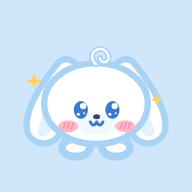
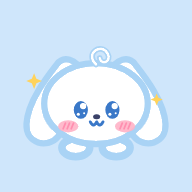
Add files via upload

Changed region(s): [[0.7188, 0.5938, 0.8125, 0.7188], [0.1875, 0.5938, 0.2812, 0.7188]]

diff --git a/index.html b/index.html
@@ -1,5 +1,5 @@
 <!doctype html><html><head><meta charset=utf8><meta name=viewport content="width=device-width,initial-scale=1,viewport-fit=cover"><style>:root{color-scheme:light;box-sizing:border-box;padding-top:env(safe-area-inset-top,0px);padding-bottom:env(safe-area-inset-bottom,0px)}html{scroll-padding-top:env(safe-area-inset-top,0px)}body{margin:0;padding:0;font:14px -apple-system,BlinkMacSystemFont,sans-serif;background:#fff;color:#000}img{max-width:100%}[hidden]:not([hidden=until-found i]){display:none!important}</style><link rel="manifest" href="manifest.json"><meta name="theme-color" content="#7dbff5"><link rel="icon" type="image/svg+xml" href="favicon.svg"><link rel="icon" type="image/png" sizes="192x192" href="icon-192.png"><link rel="apple-touch-icon" href="icon-192.png"></head><body>
-<title>Nubi y Flanci</title>
+<title>NubiTime</title>
 <link rel="preconnect" href="https://fonts.googleapis.com">
 <link rel="preconnect" href="https://fonts.gstatic.com" crossorigin>
 <link href="https://fonts.googleapis.com/css2?family=Fredoka:wght@400;500;600&family=Nunito:wght@600;700;800&display=swap" rel="stylesheet">
@@ -291,7 +291,7 @@ input[type=time]::-webkit-calendar-picker-indicator{-webkit-appearance:none;appe
     <ellipse cx="62" cy="60" rx="41" ry="32" fill="#fff" stroke="#a9d3f5" stroke-width="5"/>
     <path d="M62 29C53 20 66 12 71 20C75 27 66 30 65 24" fill="none" stroke="#a9d3f5" stroke-width="4.5" stroke-linecap="round"/>
     <path d="M62 29C53 20 66 12 71 20C75 27 66 30 65 24" fill="none" stroke="#fff" stroke-width="1.8" stroke-linecap="round"/>
-    <ellipse cx="62" cy="76" rx="16" ry="9" fill="#f1f8ff"/>
+    <ellipse cx="62" cy="76" rx="16" ry="9" fill="#fff"/>
   </symbol>
 
   <!-- Flanci: perrito-flan dorado con boina de caramelo y orejas largas -->

diff --git a/sw.js b/sw.js
@@ -1,4 +1,4 @@
-const C="nubi-v3",A=["./","index.html","manifest.json","favicon.svg","icon-192.png","icon-512.png"];
+const C="nubitime-v5",A=["./","index.html","manifest.json","favicon.svg","icon-192.png","icon-512.png"];
 self.addEventListener("install",e=>{e.waitUntil(caches.open(C).then(c=>c.addAll(A)).then(()=>self.skipWaiting()))});
 self.addEventListener("activate",e=>{e.waitUntil(caches.keys().then(k=>Promise.all(k.filter(x=>x!==C).map(x=>caches.delete(x)))).then(()=>self.clients.claim()))});
 self.addEventListener("fetch",e=>{if(e.request.method!=="GET")return;e.respondWith(fetch(e.request).then(r=>{if(r.ok&&new URL(e.request.url).origin===location.origin){const q=r.clone();caches.open(C).then(c=>c.put(e.request,q))}return r}).catch(()=>caches.match(e.request).then(m=>m||caches.match("index.html"))))});
